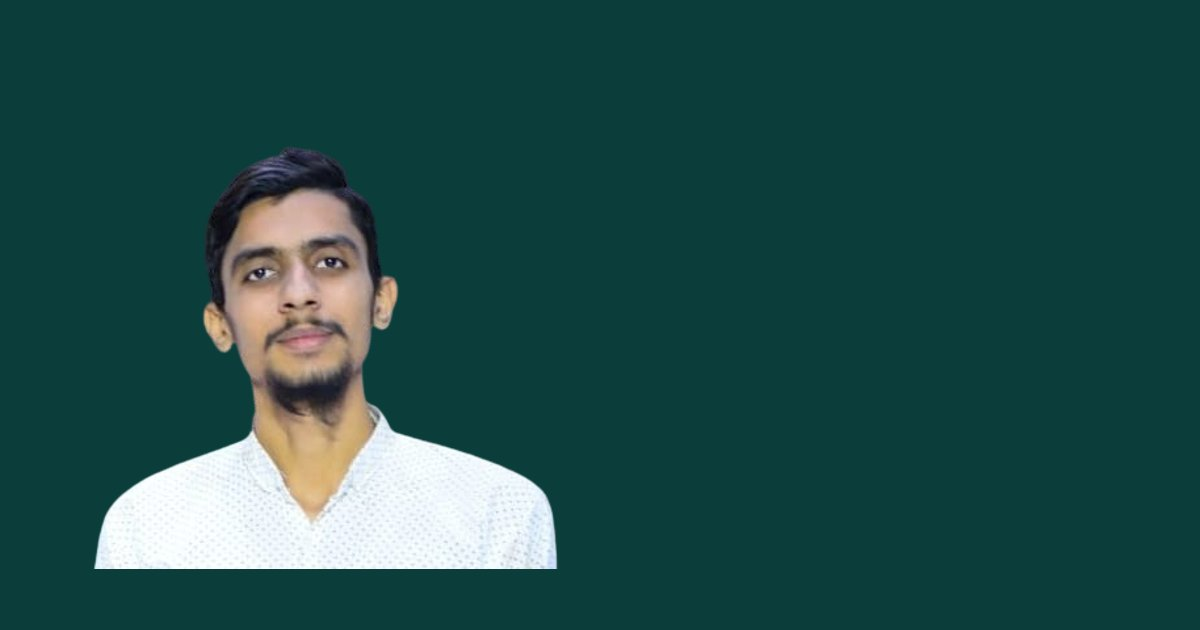
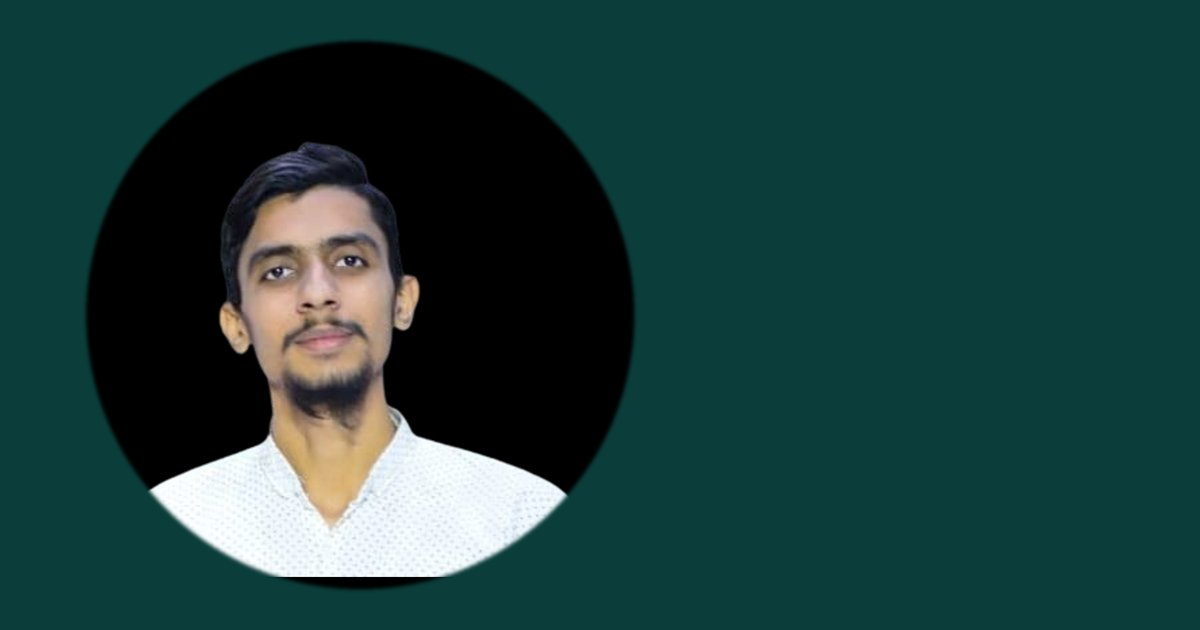
Fix hero portrait presentation and remove em dashes from page copy.

Changed region(s): [[0.0617, 0.0603, 0.555, 0.9349]]

diff --git a/index.html b/index.html
@@ -48,7 +48,7 @@
     <link href="lib/lightbox/css/lightbox.min.css" rel="stylesheet">
 
     <!-- Template Stylesheet -->
-    <link href="css/style.css?v=seo-audit-2" rel="stylesheet">
+    <link href="css/style.css?v=hero-image-fix-1" rel="stylesheet">
 
     <!-- Person + Website Schema -->
     <script type="application/ld+json">
@@ -159,7 +159,7 @@
                             <h1>Shopify Developer</h1>
                             <h2></h2>
                             <div class="typed-text">Shopify Liquid Developer, Shopify Theme Developer, Shopify Custom Sections, WordPress Developer</div>
-                            <p class="hero-lead">I build custom Shopify stores with Liquid, custom themes, and responsive storefronts — plus WordPress websites from Figma designs in Karachi, Pakistan.</p>
+                            <p class="hero-lead">I build custom Shopify stores with Liquid, custom themes, and responsive storefronts, plus WordPress websites from Figma designs in Karachi, Pakistan.</p>
                         </div>
                         <div class="hero-btn">
                             <a class="btn" href="https://wa.me/923147609428" target="_blank" rel="noopener noreferrer">Hire Shopify Developer</a>
@@ -634,7 +634,7 @@
         <div class="container">
             <header class="section-header text-center wow zoomIn" data-wow-delay="0.1s">
                 <p>Get In Touch</p>
-                <h2>Hire Muhammad Saad — Shopify Developer</h2>
+                <h2>Hire Muhammad Saad Shopify Developer</h2>
                 <p class="section-sub">Looking for a Shopify Developer in Karachi or a WordPress developer for your next project? Let’s talk.</p>
             </header>
             <div class="row justify-content-center">
@@ -716,7 +716,7 @@
                 </div>
             </div>
             <div class="container copyright">
-                <p>&copy; <a href="https://muhammadsaad873.github.io/portfolio/">Muhammad Saad</a> — Shopify Developer Karachi · All Rights Reserved</p>
+                <p>&copy; <a href="https://muhammadsaad873.github.io/portfolio/">Muhammad Saad</a> Shopify Developer Karachi. All Rights Reserved</p>
             </div>
         </div>
     </div>

diff --git a/css/style.css b/css/style.css
@@ -355,9 +355,13 @@ a:focus {
 }
 
 .hero .hero-image img {
-    max-width: 80%;
-    max-height: 80%;
-    filter: drop-shadow(0 25px 40px rgba(0, 0, 0, 0.28));
+    width: min(360px, 78%);
+    height: auto;
+    max-width: 360px;
+    border-radius: 50%;
+    object-fit: cover;
+    background: rgba(255, 255, 255, 0.08);
+    box-shadow: 0 18px 40px rgba(0, 0, 0, 0.28);
     animation: floatHero 5s ease-in-out infinite;
 }
 
